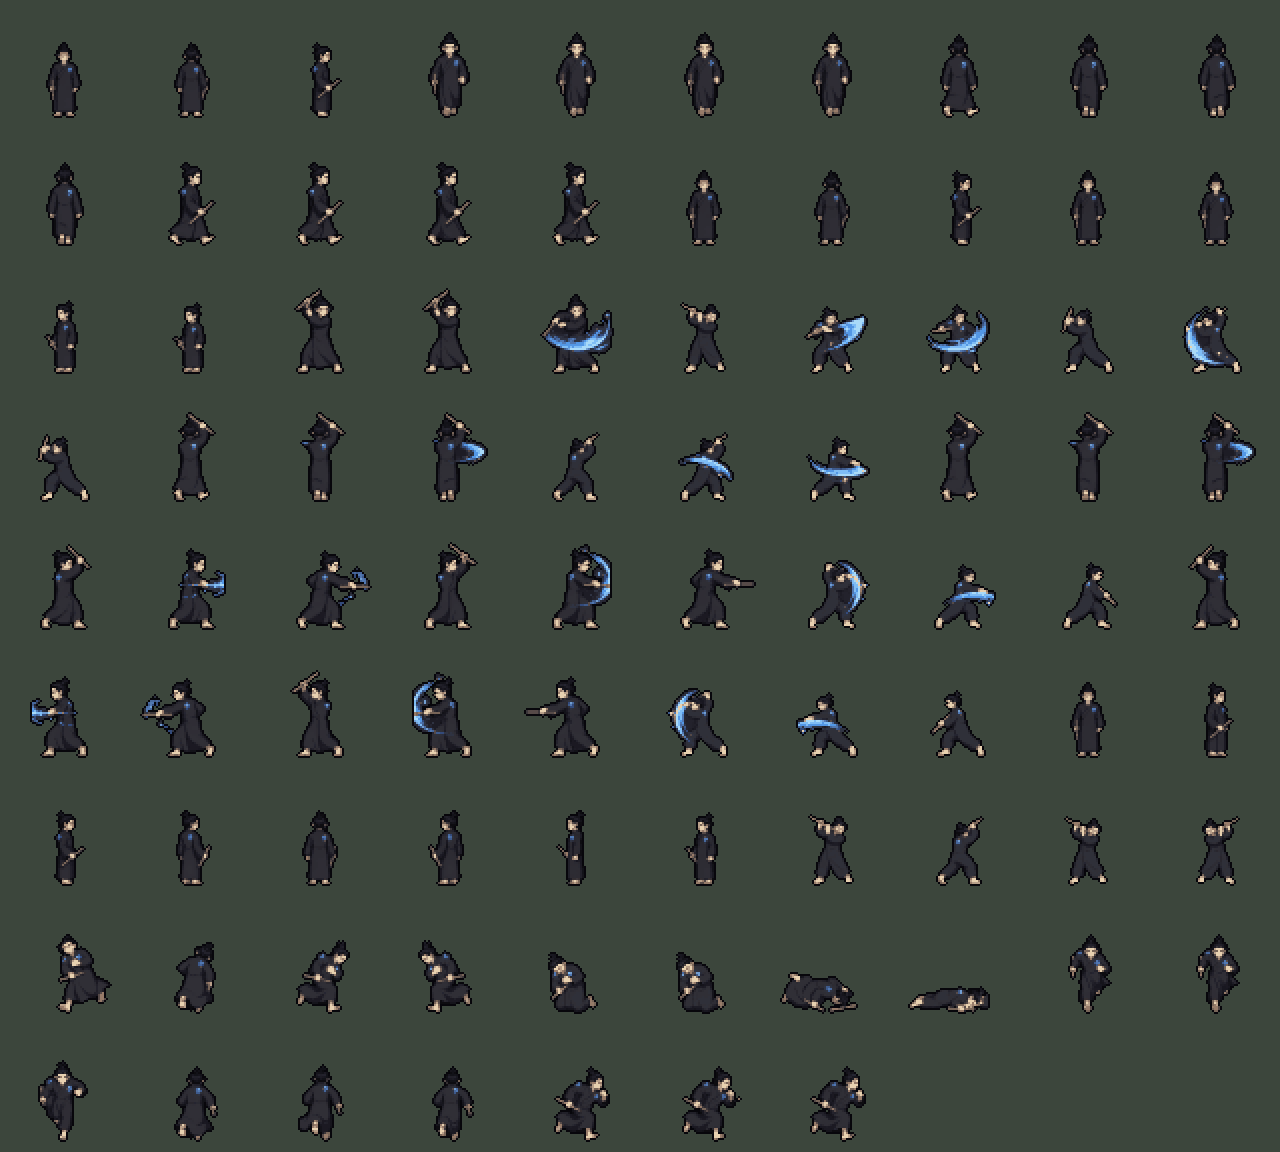
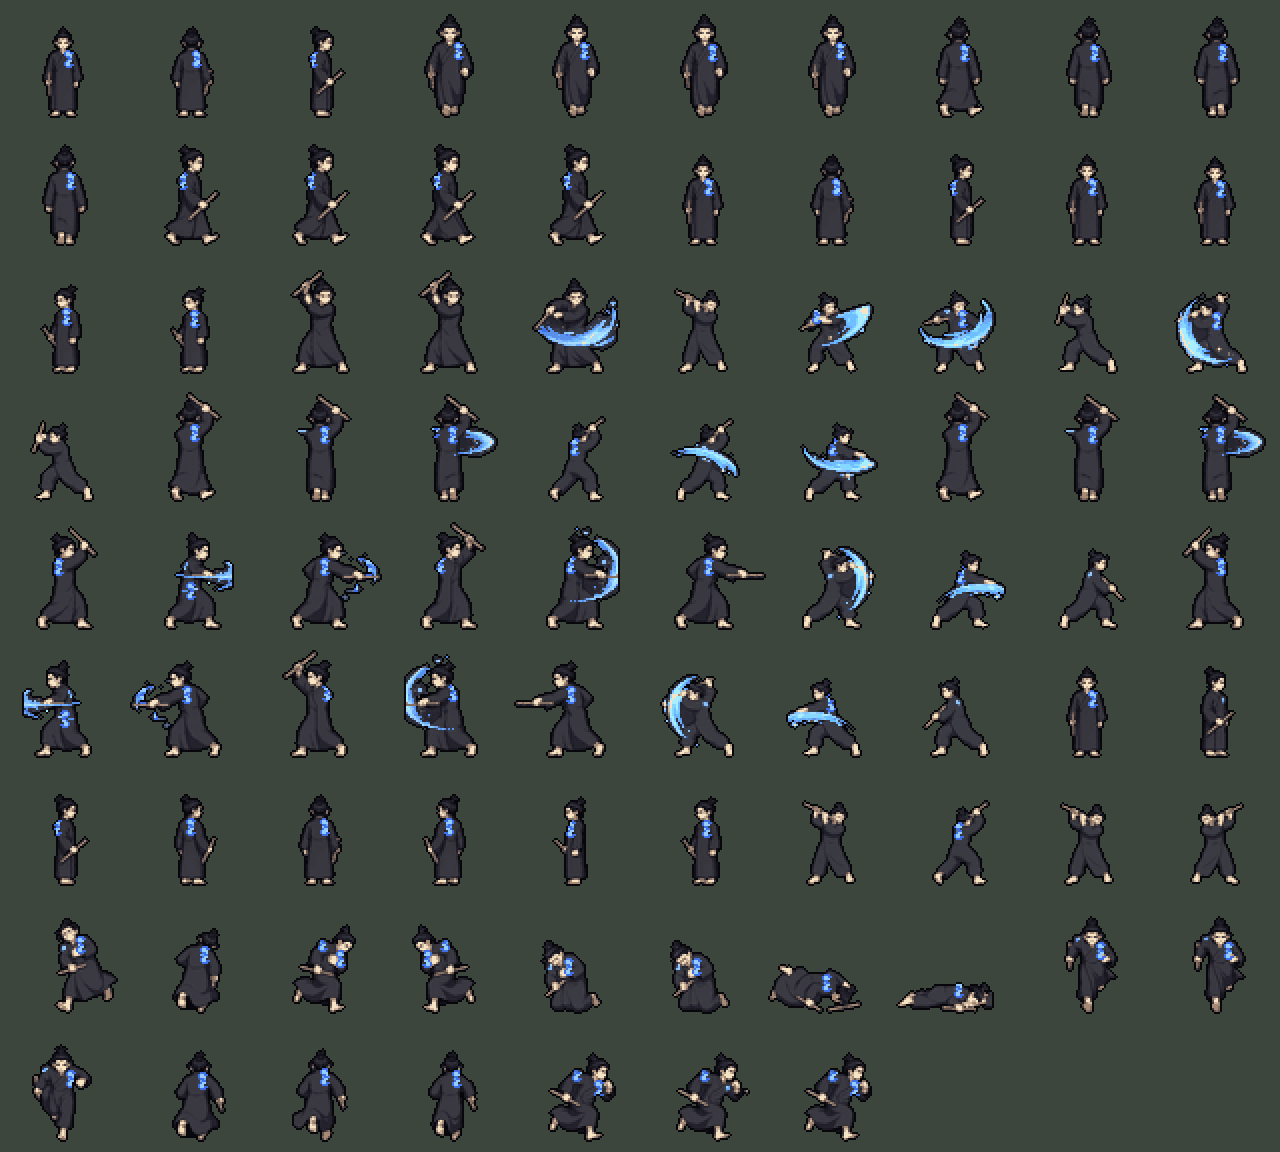
art(hero): 뭉개짐 개선 — 배율 1.22(46px), LANCZOS+감마, 40+12색, 용 문양 수동 글리프

diff --git a/art/import_hero.py b/art/import_hero.py
@@ -23,6 +23,9 @@ FEET = 58
 BG_TOL = 6   # 검은 도포(≈배경색)가 배경으로 번지지 않도록 좁게
 INK = (7, 6, 11, 255)
 PAL_N = 32
+MUL = 1.22      # 전 시트 공통 배율 보정: 머리~발 38px -> 46px (얼굴 눈코가 읽히는 최소 크기)
+GAMMA = 0.12    # 검은 도포 암부 들어올림
+BLUE_THR = 0.18 # 푸른 문양 픽셀 보존 임계
 
 _cache = {}
 def load(name):
@@ -38,7 +41,27 @@ def load(name):
         _cache[name] = (a, fg)
     return _cache[name]
 
+DRAGON = ["..111..", ".12211.", ".1222..", "..11...", "...11..", "..122..", ".122...", ".12211.", "..111.."]
+DR_COL = {'1': (64, 112, 232), '2': (150, 205, 255)}
+def stamp_dragon(res, bm):
+    """푸른 용 문양: 가슴 위 작은 덩어리(검기 이펙트 아님)는 도트가 뭉개지므로 손으로 그린 9x7 용 글리프로 다시 찍는다."""
+    lab, n = ndimage.label(ndimage.binary_dilation(bm, iterations=1))
+    for k in range(1, n + 1):
+        m = lab == k
+        ys, xs = np.where(m & bm)
+        if len(ys) < 5 or len(ys) > 60 or ys.max() - ys.min() > 12 or xs.max() - xs.min() > 10:
+            continue
+        cy, cx = int(round(ys.mean())), int(round(xs.mean()))
+        for r, line in enumerate(DRAGON):
+            for c, ch in enumerate(line):
+                if ch in DR_COL:
+                    y, x = cy - 4 + r, cx - 3 + c
+                    if 0 <= y < res.shape[0] and 0 <= x < res.shape[1] and res[y, x, 3]:
+                        res[y, x, :3] = DR_COL[ch]
+    return res
+
 def grab(name, box, scale, flip=False):
+    scale = scale * MUL
     """crop box from sheet -> RGBA image downscaled by `scale`, feet-aligned into a CELL x CELL tile."""
     a, fg = load(name)
     x0, y0, x1, y1 = box
@@ -60,17 +83,23 @@ def grab(name, box, scale, flip=False):
     low = body & (np.arange(body.shape[0])[:, None] > bottom - 0.12 * body.shape[0])
     lx = np.where(low.any(0))[0]
     fx = (lx.min() + lx.max()) / 2.0   # foot centre
-    img = np.dstack([rgb, f.astype(np.uint8) * 255])
-    im = Image.fromarray(img, 'RGBA')
-    # premultiplied BOX downscale
-    arr = np.array(im).astype(float)
-    arr[..., :3] *= arr[..., 3:4] / 255.0
-    w, h = max(1, round(im.width * scale)), max(1, round(im.height * scale))
-    chans = [np.array(Image.fromarray(arr[..., c]).resize((w, h), Image.BOX)) for c in range(4)]
-    out = np.dstack(chans)
-    al = out[..., 3] / 255.0
-    rgbs = np.where(al[..., None] > 0, out[..., :3] / np.maximum(al[..., None], 1e-6) * 1.0, 0)
-    res = np.dstack([np.clip(rgbs, 0, 255), (al >= 0.5) * 255]).astype(np.uint8)
+    # v2 (2026-10-12 hero-detail): bg 제거 영역을 가장 가까운 전경색으로 채운 뒤 LANCZOS 축소(경계 헤일로 방지),
+    # 알파는 BOX>=0.5, 푸른 문양은 별도 마스크를 max-pool 식으로 살려 밝게 유지, 어두운 도포는 감마로 살짝 들어올려 주름·윤곽이 읽히게
+    idx = ndimage.distance_transform_edt(~f, return_distances=False, return_indices=True)
+    filled = rgb[idx[0], idx[1]]
+    if GAMMA:
+        filled = (255 * (filled / 255.0) ** (1 - GAMMA)).astype(np.uint8)
+    w, h = max(1, round(f.shape[1] * scale)), max(1, round(f.shape[0] * scale))
+    small = np.array(Image.fromarray(filled).resize((w, h), Image.LANCZOS)).astype(float)
+    al = np.array(Image.fromarray((f * 255).astype(np.uint8)).resize((w, h), Image.BOX)).astype(float) / 255
+    bl = (blue & f)
+    bcnt = np.array(Image.fromarray((bl * 255).astype(np.uint8)).resize((w, h), Image.BOX)).astype(float) / 255
+    bcol = np.array(Image.fromarray(np.where(bl[..., None], rgb, 0).astype(np.uint8)).resize((w, h), Image.BOX)).astype(float)
+    bcol = bcol / np.maximum(bcnt[..., None], 0.05)
+    bm = bcnt > BLUE_THR
+    small = np.where(bm[..., None], np.clip(bcol * 1.12 + 8, 0, 255), small)
+    res = np.dstack([np.clip(small, 0, 255), (al >= 0.5) * 255]).astype(np.uint8)
+    stamp_dragon(res, bm)
     sm = Image.fromarray(res, 'RGBA')
     fxs, bys = int(round(fx * scale)), int(round((bottom + 1) * scale))
     tile = Image.new('RGBA', (CELL, CELL), (0, 0, 0, 0))
@@ -178,7 +207,7 @@ def finish(cells):
     # palette unify (32 colours, no dither)
     # 푸른 이펙트(검기·용 문양)는 따로 8색, 나머지 28색 — 한 팔레트로 합치면 푸른빛이 회색으로 죽는다
     blue = op & (a[..., 2].astype(int) - a[..., 0] > 40) & (a[..., 2] > 110)
-    for mask, n in ((~blue & op, 28), (blue, 8)):
+    for mask, n in ((~blue & op, 40), (blue, 12)):
         px = a[mask][:, :3]
         if len(px) == 0:
             continue
